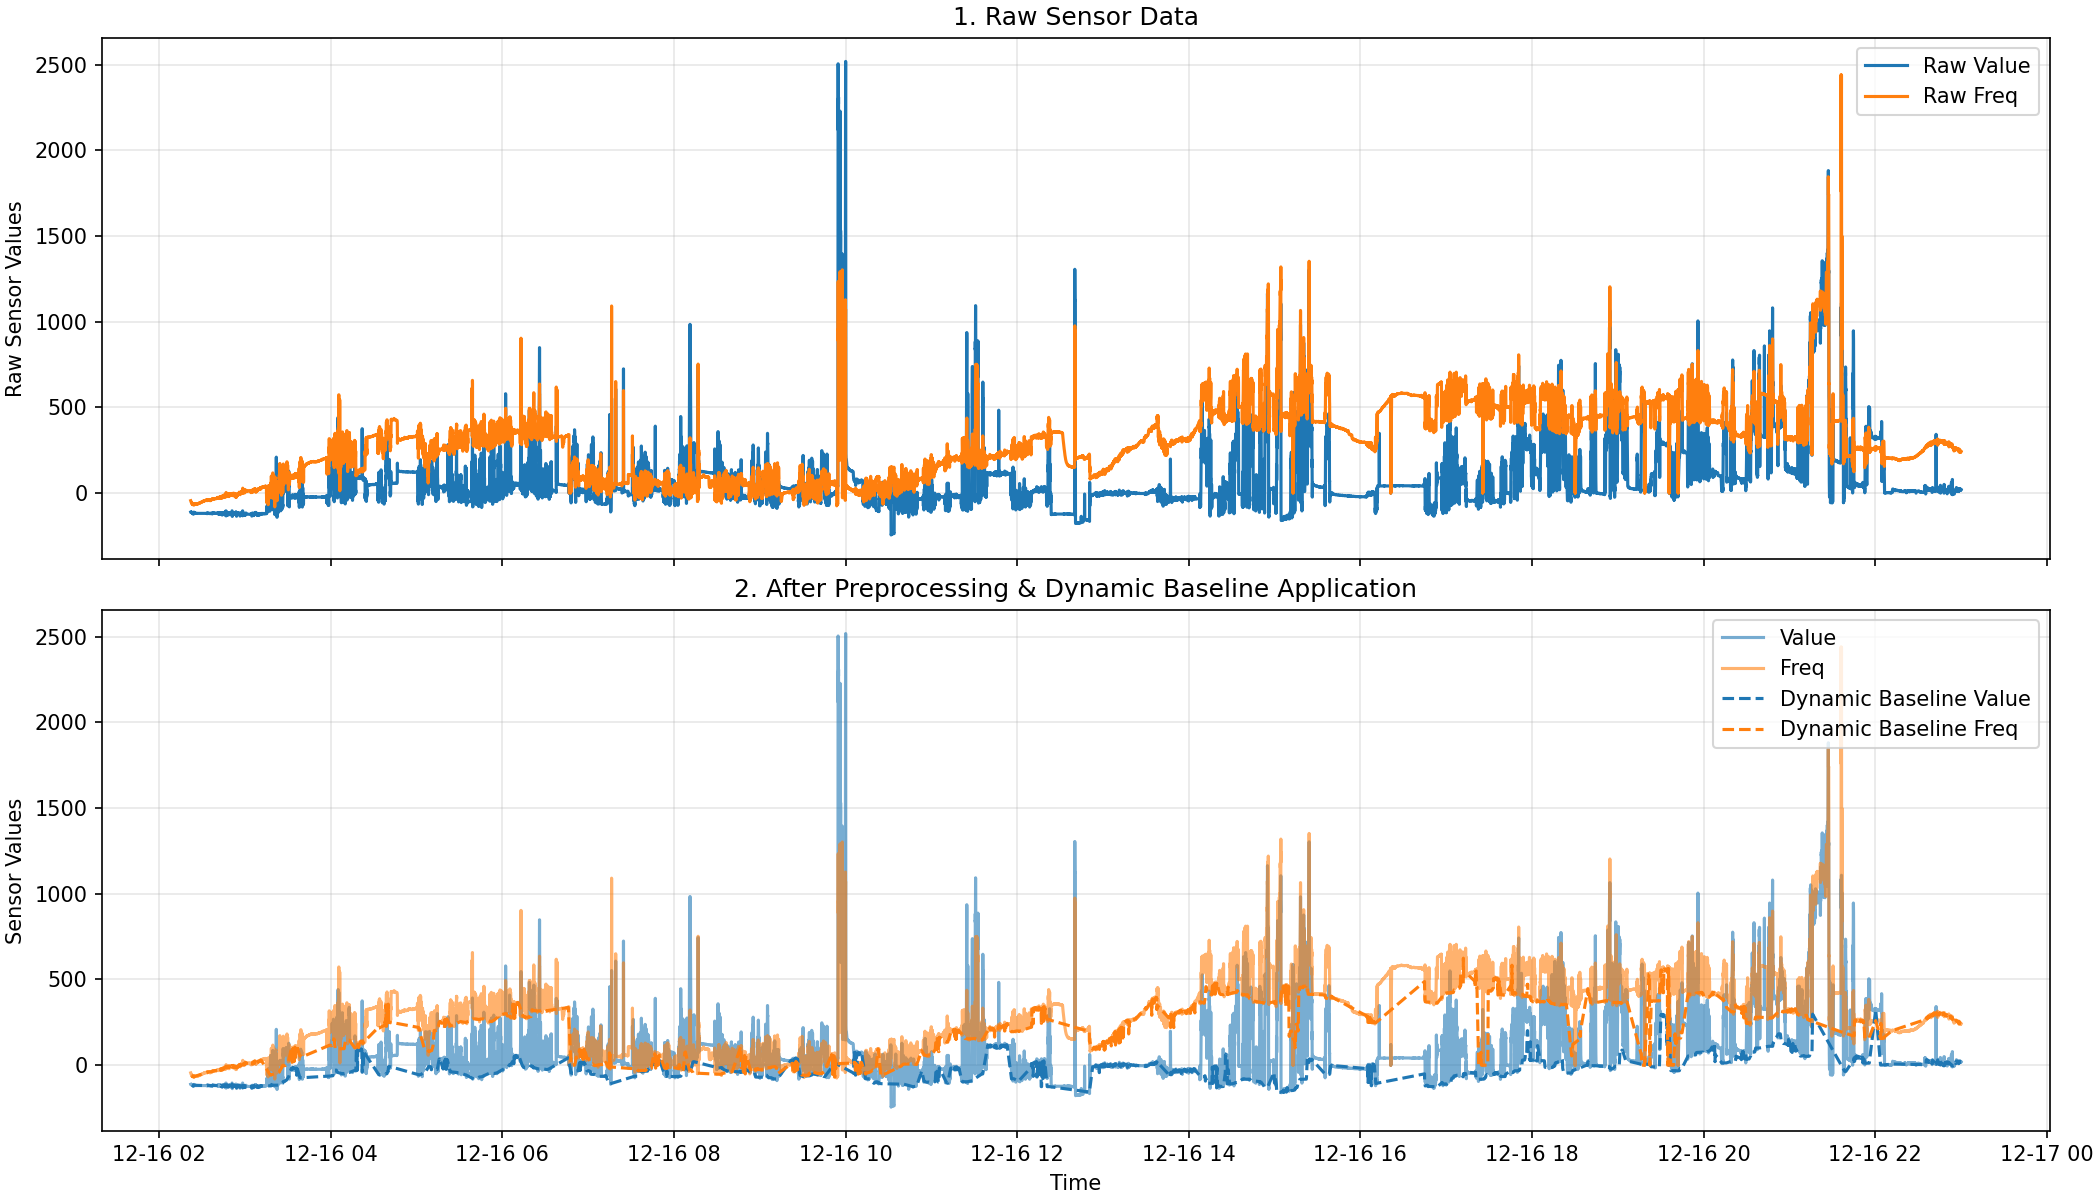
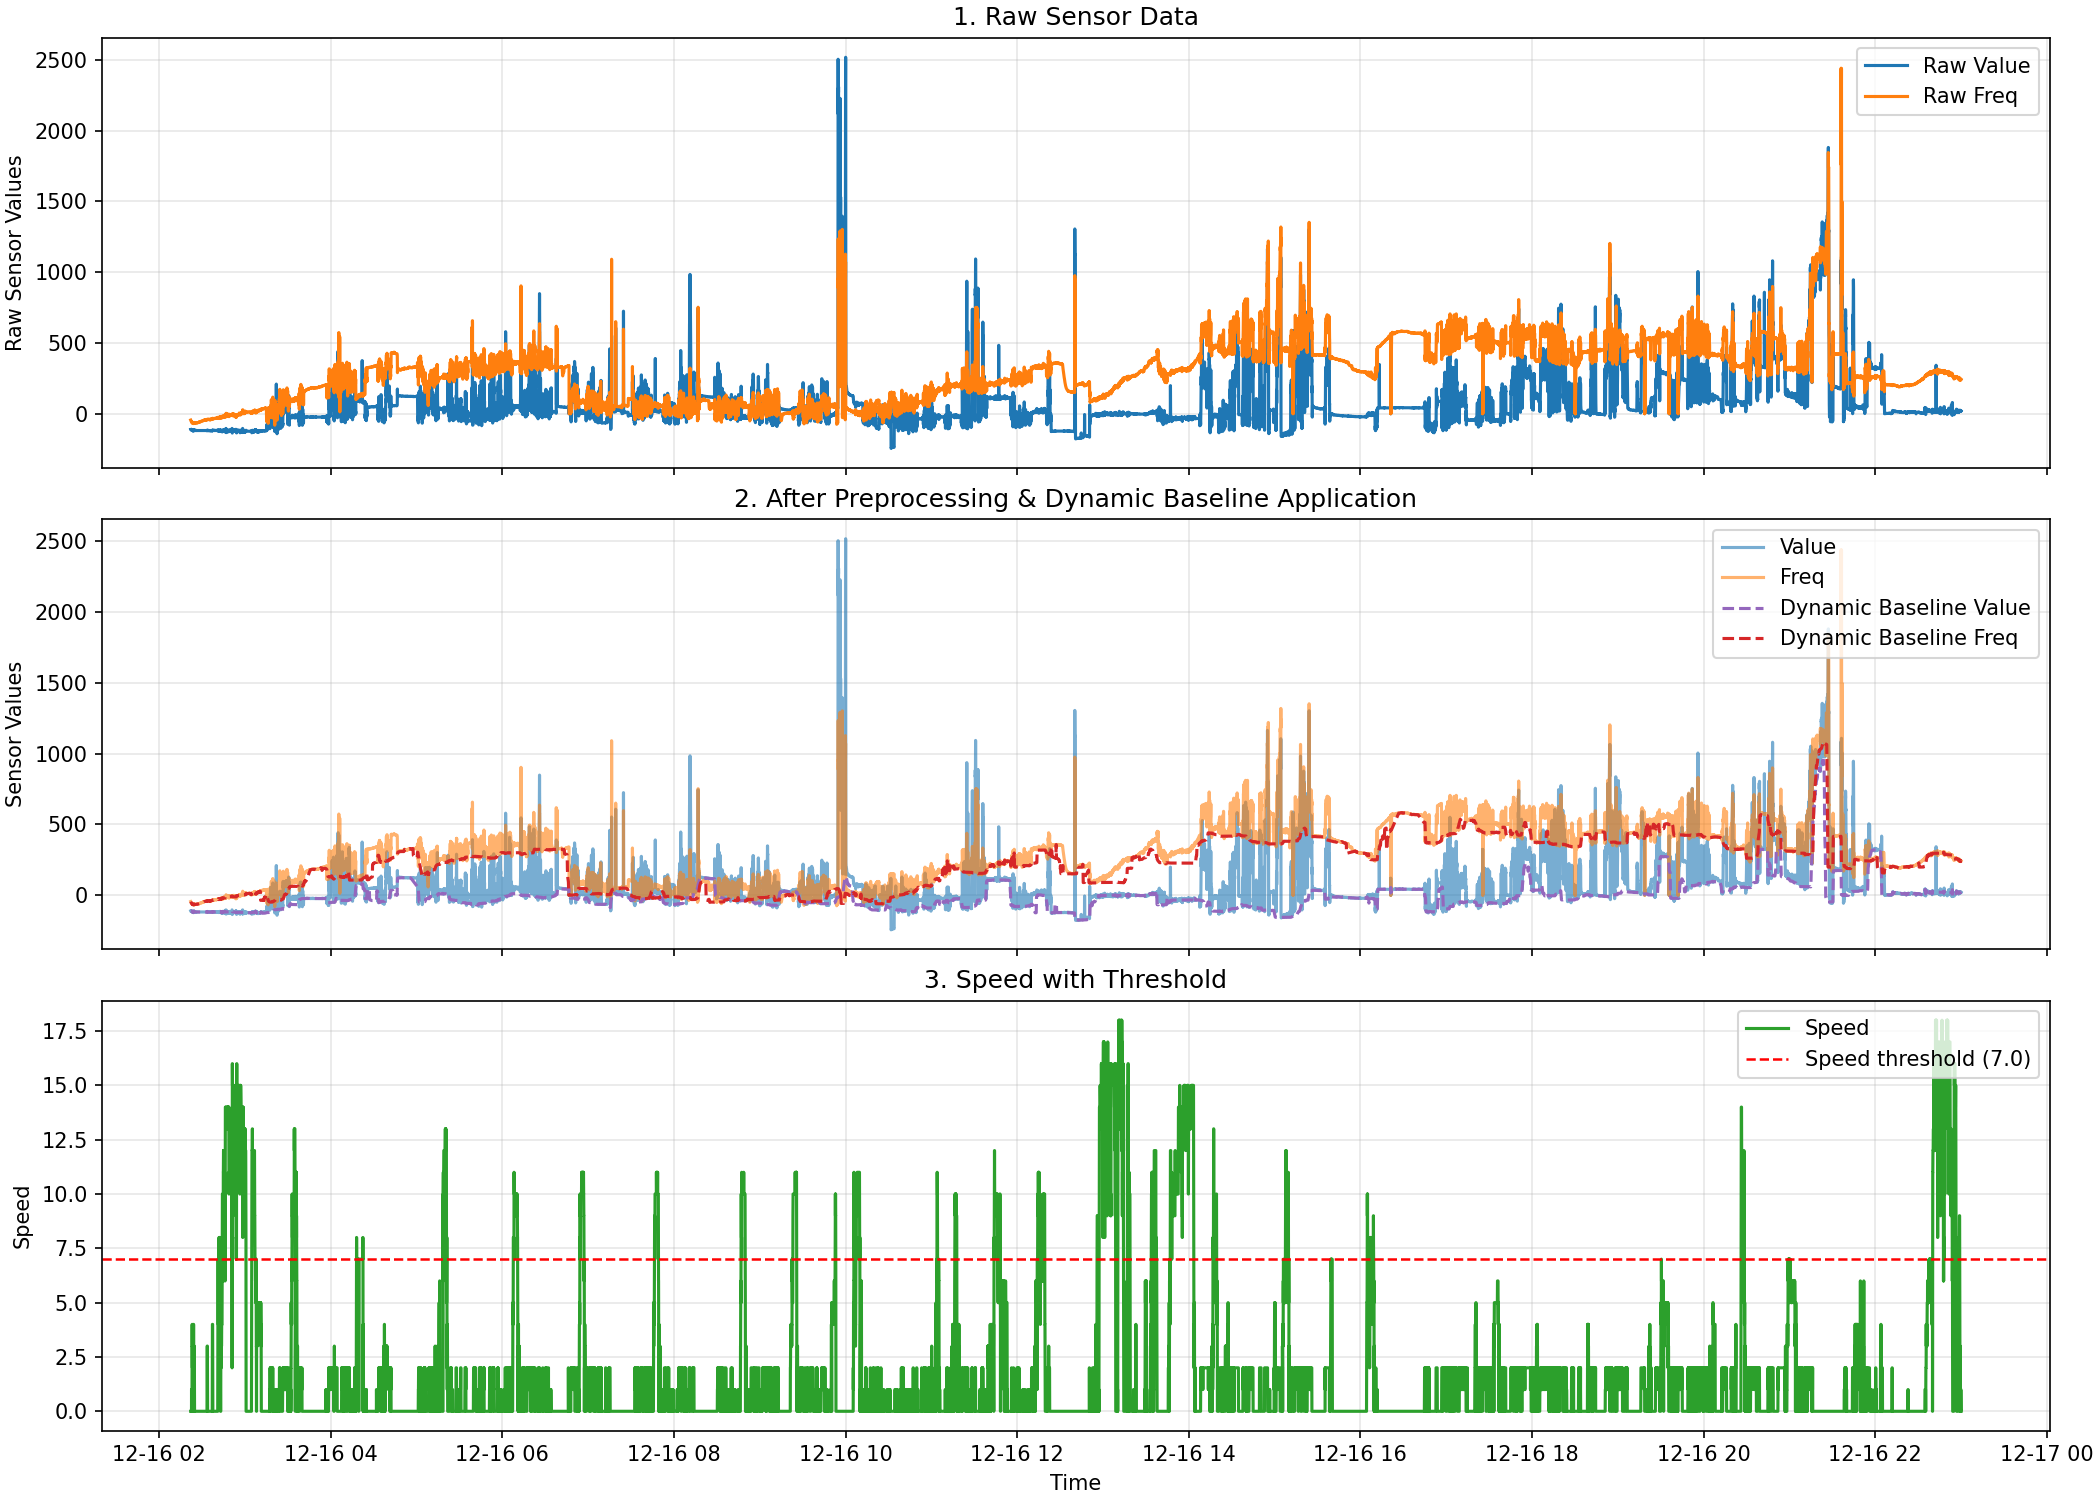
Removed downward spikes, modified preprocessing, added speed plot

diff --git a/dynamic_baseline_plots.py b/dynamic_baseline_plots.py
@@ -25,14 +25,14 @@ def _calculate_baselines_for_sensors(
         strategy_params_freq = {}
 
     # Calculate baseline for value
-    value_baseline_df = calculate_dynamic_baseline(
-        df_preprocessed, param_col_name="value", strategy_params=strategy_params_value
-    )
+    value_baseline_df = calculate_dynamic_baseline(df_preprocessed,
+                                                    param_col_name="value",
+                                                    strategy_params=strategy_params_value)
 
     # Calculate baseline for freq
-    freq_baseline_df = calculate_dynamic_baseline(
-        df_preprocessed, param_col_name="freq", strategy_params=strategy_params_freq
-    )
+    freq_baseline_df = calculate_dynamic_baseline(df_preprocessed,
+                                                    param_col_name="freq",
+                                                    strategy_params=strategy_params_freq)
 
     merged = df_preprocessed.copy()
     merged["baseline_value"] = value_baseline_df["final_baseline"]
@@ -60,33 +60,36 @@ def plot_raw_and_dynamic_baseline(
     """
     # 1) Load and merge all CSVs
     df_raw = process_and_merge_csv_files(directory)
-    
-    print("strategy_params_value: ", strategy_params_value)
-    print("strategy_params_freq: ", strategy_params_freq)
 
-    # 3) Calculate dynamic baselines for both sensors on preprocessed data
-    df_with_baselines = _calculate_baselines_for_sensors(
-        df_raw,
-        strategy_params_value=strategy_params_value,
-        strategy_params_freq=strategy_params_freq,
-    )
+    print("Raw data is loaded")
 
      # 2) Preprocess (filter by reaper lift and speed)
     df_preprocessed = preprocess_data(
-        df_with_baselines,
+        df_raw,
         reaper_lift_threshold=reaper_lift_threshold,
         speed_threshold=speed_threshold,
     )
 
-    print(df_raw.shape)
-    print(df_with_baselines.shape)
-    print(df_preprocessed.shape)
+    print("Data is pre-processed by the speed in range "
+        f"[0; {speed_threshold}] and reaper-lift > {reaper_lift_threshold}")
 
-    # 4) Create figure with two subplots (matching style of provided image)
+    # 3) Calculate dynamic baselines for both sensors on preprocessed data
+    df_with_baselines = _calculate_baselines_for_sensors(
+        df_preprocessed,
+        strategy_params_value=strategy_params_value,
+        strategy_params_freq=strategy_params_freq,
+    )
+
+    print(df_raw.shape)
+    print(df_preprocessed.shape)
+    print(df_with_baselines.shape)
+
+    # 4) Create figure with three subplots (raw, baselines, speed)
+    speed_thr = speed_threshold if speed_threshold is not None else 1.0
     fig, axes = plt.subplots(
-        2,
+        3,
         1,
-        figsize=(14, 8),
+        figsize=(14, 10),
         sharex=True,
         constrained_layout=True,
     )
@@ -118,17 +121,17 @@ def plot_raw_and_dynamic_baseline(
     )
 
     ax_mid.plot(
-        df_preprocessed["time"],
-        df_preprocessed["baseline_value_smoothed"],
-        color="tab:blue",
+        df_with_baselines["time"],
+        df_with_baselines["baseline_value_smoothed"],
+        color="tab:purple",
         linewidth=1.5,
         linestyle="--",
         label="Dynamic Baseline Value",
     )
     ax_mid.plot(
-        df_preprocessed["time"],
-        df_preprocessed["baseline_freq_smoothed"],
-        color="tab:orange",
+        df_with_baselines["time"],
+        df_with_baselines["baseline_freq_smoothed"],
+        color="tab:red",
         linewidth=1.5,
         linestyle="--",
         label="Dynamic Baseline Freq",
@@ -138,6 +141,27 @@ def plot_raw_and_dynamic_baseline(
     ax_mid.set_ylabel("Sensor Values")
     ax_mid.grid(True, alpha=0.3)
     ax_mid.legend(loc="upper right")
+
+    # --- Third plot: Speed with threshold ---
+    ax_bottom = axes[2]
+    ax_bottom.plot(
+        df_raw["time"],
+        df_raw["speed"],
+        color="tab:green",
+        label="Speed",
+    )
+    if speed_thr is not None:
+        ax_bottom.axhline(
+            speed_thr,
+            color="red",
+            linestyle="--",
+            linewidth=1.2,
+            label=f"Speed threshold ({speed_thr})",
+        )
+    ax_bottom.set_title("3. Speed with Threshold")
+    ax_bottom.set_ylabel("Speed")
+    ax_bottom.grid(True, alpha=0.3)
+    ax_bottom.legend(loc="upper right")
 
     axes[-1].set_xlabel("Time")
 
@@ -149,28 +173,33 @@ def plot_raw_and_dynamic_baseline(
 
 if __name__ == "__main__":
     # 3431363532335116004a0032
+    # 3431363532335116004d0035  # big dataset
+    # 343136353233511600220035
     dir_path = "data/343136353233511600220035"
     plot_raw_and_dynamic_baseline(dir_path,
+                                    speed_threshold=7.0,
                                     strategy_params_value = {
                                         "min_diff": 100,
-                                        "min_window1": 200,
-                                        "min_window2": 500,
-                                        "threshold_q_mins": 0.05,
+                                        "min_window1": 300,
+                                        "min_window2": 600,
+                                        "threshold_q_mins": 0.1,
                                         "final_smoothing_window": 5,
-                                        "const_window": 100,
-                                        "const_std_thresh": 5,
-                                        "rolling_std_small": 5,    # Adjust based on sensor noise
-                                        "rolling_window": 10},
+                                        "const_window": 300,
+                                        "const_std_thresh": 20,
+                                        "rolling_std_small": 20,    # Adjust based on sensor noise
+                                        "rolling_window": 400,
+                                        "min_low_points": 5},
                                     strategy_params_freq = {
                                         "min_diff": 100,
-                                        "min_window1": 200,
-                                        "min_window2": 500,
-                                        "threshold_q_mins": 0.05,
+                                        "min_window1": 300,
+                                        "min_window2": 600,
+                                        "threshold_q_mins": 0.1,
                                         "final_smoothing_window": 5,
-                                        "const_window": 100,
-                                        "const_std_thresh": 5,
-                                        "rolling_std_small": 5,
-                                        "rolling_window": 10},
+                                        "const_window": 300,
+                                        "const_std_thresh": 20,
+                                        "rolling_std_small": 20,
+                                        "rolling_window": 400,
+                                        "min_low_points": 5},
                                     output_path="result.png")
 
 

diff --git a/dynamic_baseline.py b/dynamic_baseline.py
@@ -8,10 +8,6 @@ import pandas as pd
 def process_and_merge_csv_files(directory: str) -> pd.DataFrame:
     """
     Read all CSV files from a directory and merge them into a single DataFrame.
-
-    This mirrors the behaviour of `process_and_merge_csv_files` from
-    `baseline_calculation.py`, but is kept local so this module can be used
-    independently.
     """
     csv_files = [f for f in os.listdir(directory) if f.endswith(".csv")]
     df_list = []
@@ -61,9 +57,6 @@ def preprocess_data(
 ) -> pd.DataFrame:
     """
     Filter and preprocess data based on reaper lift percentage and speed.
-
-    This follows the same logic as `PotatoHarvestBaselinePredictor.preprocess_data`
-    from `baseline_calculation.py`, but implemented as a standalone function.
     """
     if reaper_lift_threshold is None:
         # Reasonable defaults if not provided
@@ -76,8 +69,11 @@ def preprocess_data(
     if speed_column not in df.columns:
         raise KeyError(f"Column '{speed_column}' not found in DataFrame.")
 
-    mask = (df[reaper_lift_column] > reaper_lift_threshold) & (
-        df[speed_column] > speed_threshold
+    # Filter by lift/speed thresholds and drop negative speed readings
+    mask = (
+        (df[reaper_lift_column] > reaper_lift_threshold)
+        & (df[speed_column] >= 0)
+        & (df[speed_column] <= speed_threshold)
     )
     df_filtered = df.loc[mask].copy()
 
@@ -94,7 +90,6 @@ def calculate_dynamic_baseline(
 ) -> pd.DataFrame:
     """
     Calculate dynamic baseline using a local minimum search approach.
-    Replaces the previous smoothing-based logic.
 
     Parameters
     ----------
@@ -165,70 +160,84 @@ def calculate_dynamic_baseline(
 
     # === 3. Auxiliary function for finding minima ===
     def _find_minimum_in_window(window_data: np.ndarray) -> Optional[float]:
-        """Находит минимальное значение в окне с учетом условий"""
-        if len(window_data) == 0:
+        """Find a robust local minimum while ignoring extreme negative spikes."""
+        max_drop_factor = 3.0
+
+        if len(window_data) < 5:
             return None
-        
-        max_val = np.max(window_data)
-        min_val = np.min(window_data)
-        
-        # Checking if there is enough variation
-        if (max_val - min_val) <= min_diff:
-            return None
-        
-        # Looking for low points
-        low_points = window_data[window_data < (max_val - min_diff)]
-        
-        # Several low points are needed
-        if len(low_points) < min_low_points:
-            return None
-        
-        # Take the lowest values
-        threshold_val = np.quantile(low_points, threshold_q_mins)
-        selected_lows = low_points[low_points <= threshold_val]
-        
-        return float(np.mean(selected_lows)) if len(selected_lows) > 0 else None
+
+        max_value = np.max(window_data)
+        min_value = np.min(window_data)
+
+        if (max_value - min_value) > min_diff:
+            # Usual low-point logic
+            all_mins = [v for v in window_data if v < max_value - min_diff]
+
+            if len(all_mins) < min_low_points:
+                return None
+
+            # Filter out extreme negative spikes
+            # 1) Typical level via median (robust to outliers)
+            median_val = float(np.median(window_data))
+            # 2) Typical spread via MAD
+            deviations = np.abs(window_data - median_val)
+            mad = float(np.median(deviations))
+            # 3) Ignore points that are too low (negative spikes)
+            spike_threshold = median_val - max_drop_factor * 1.4826 * mad
+
+            filtered_mins = [v for v in all_mins if v > spike_threshold]
+
+            # If after filtering we have too few points, treat as spike noise
+            if len(filtered_mins) < max(2, min_low_points // 2):
+                return None
+
+            # Use filtered points to derive the minimum estimate
+            threshold_mins = np.quantile(filtered_mins, threshold_q_mins)
+            kept = [v for v in filtered_mins if v <= threshold_mins]
+
+            return float(np.mean(kept)) if kept else None
+
+        return None
 
     # === 4. Main loop with optimizations ===
-    min_values = np.full(n, np.nan, dtype=float)
-    
+    # Simple optimization: vectorize constant/plateau handling before looping
+    min_values = np.full(n, np.nan, dtype=np.float64)
+
+    # Vectorized assignment for constant regions
+    constant_mask = is_constant.astype(bool)
+    min_values[constant_mask] = data_values[constant_mask]
+
+    # Vectorized assignment for local plateaus
+    plateau_mask = local_stds < rolling_std_small
+    min_values[plateau_mask] = data_values[plateau_mask]
+
     # Pre-calculate the boundaries
     window1_half = min_window1 // 2
     window2_half = min_window2 // 2
-    
+
     # Set boundaries where analysis is impossible
     start_idx = max(window1_half, window2_half)
     end_idx = n - start_idx
-    
-    for i in range(n):
-        # 1. Constant regions - use the actual value
-        if is_constant[i]:
-            min_values[i] = data_values[i]
+
+    # Only iterate where we still need values and have full windows
+    for i in range(start_idx, end_idx):
+        if constant_mask[i] or plateau_mask[i]:
             continue
-        
-        # 2. Local plateaus - use the actual value
-        if local_stds[i] < rolling_std_small:
-            min_values[i] = data_values[i]
-            continue
-        
-        # 3. Skip points at the boundaries where the windows are incomplete
-        if i < start_idx or i >= end_idx:
-            continue
-        
-        # 4. Check window 1
+
+        # Check window 1
         start1 = i - window1_half
         end1 = i + window1_half + 1
         min_val1 = _find_minimum_in_window(data_values[start1:end1])
-        
+
         if min_val1 is not None:
             min_values[i] = min_val1
             continue
-        
-        # 5. Check window 2 (if window 1 did not produce a result)
+
+        # Check window 2 (if window 1 did not produce a result)
         start2 = i - window2_half
         end2 = i + window2_half + 1
         min_val2 = _find_minimum_in_window(data_values[start2:end2])
-        
+
         if min_val2 is not None:
             min_values[i] = min_val2
     
@@ -261,7 +270,7 @@ def calculate_dynamic_baseline(
         "time": df["time"],
         param_col_name: data_values,
         "final_baseline": final_baseline.values,
-        "super_smoothed": final_baseline.values  # Одна копия вместо двух
+        "super_smoothed": final_baseline.values
     }
     
     # Add auxiliary columns
@@ -306,5 +315,3 @@ def load_preprocess_and_calculate_baseline(
     )
 
     return baseline_df
-
-
